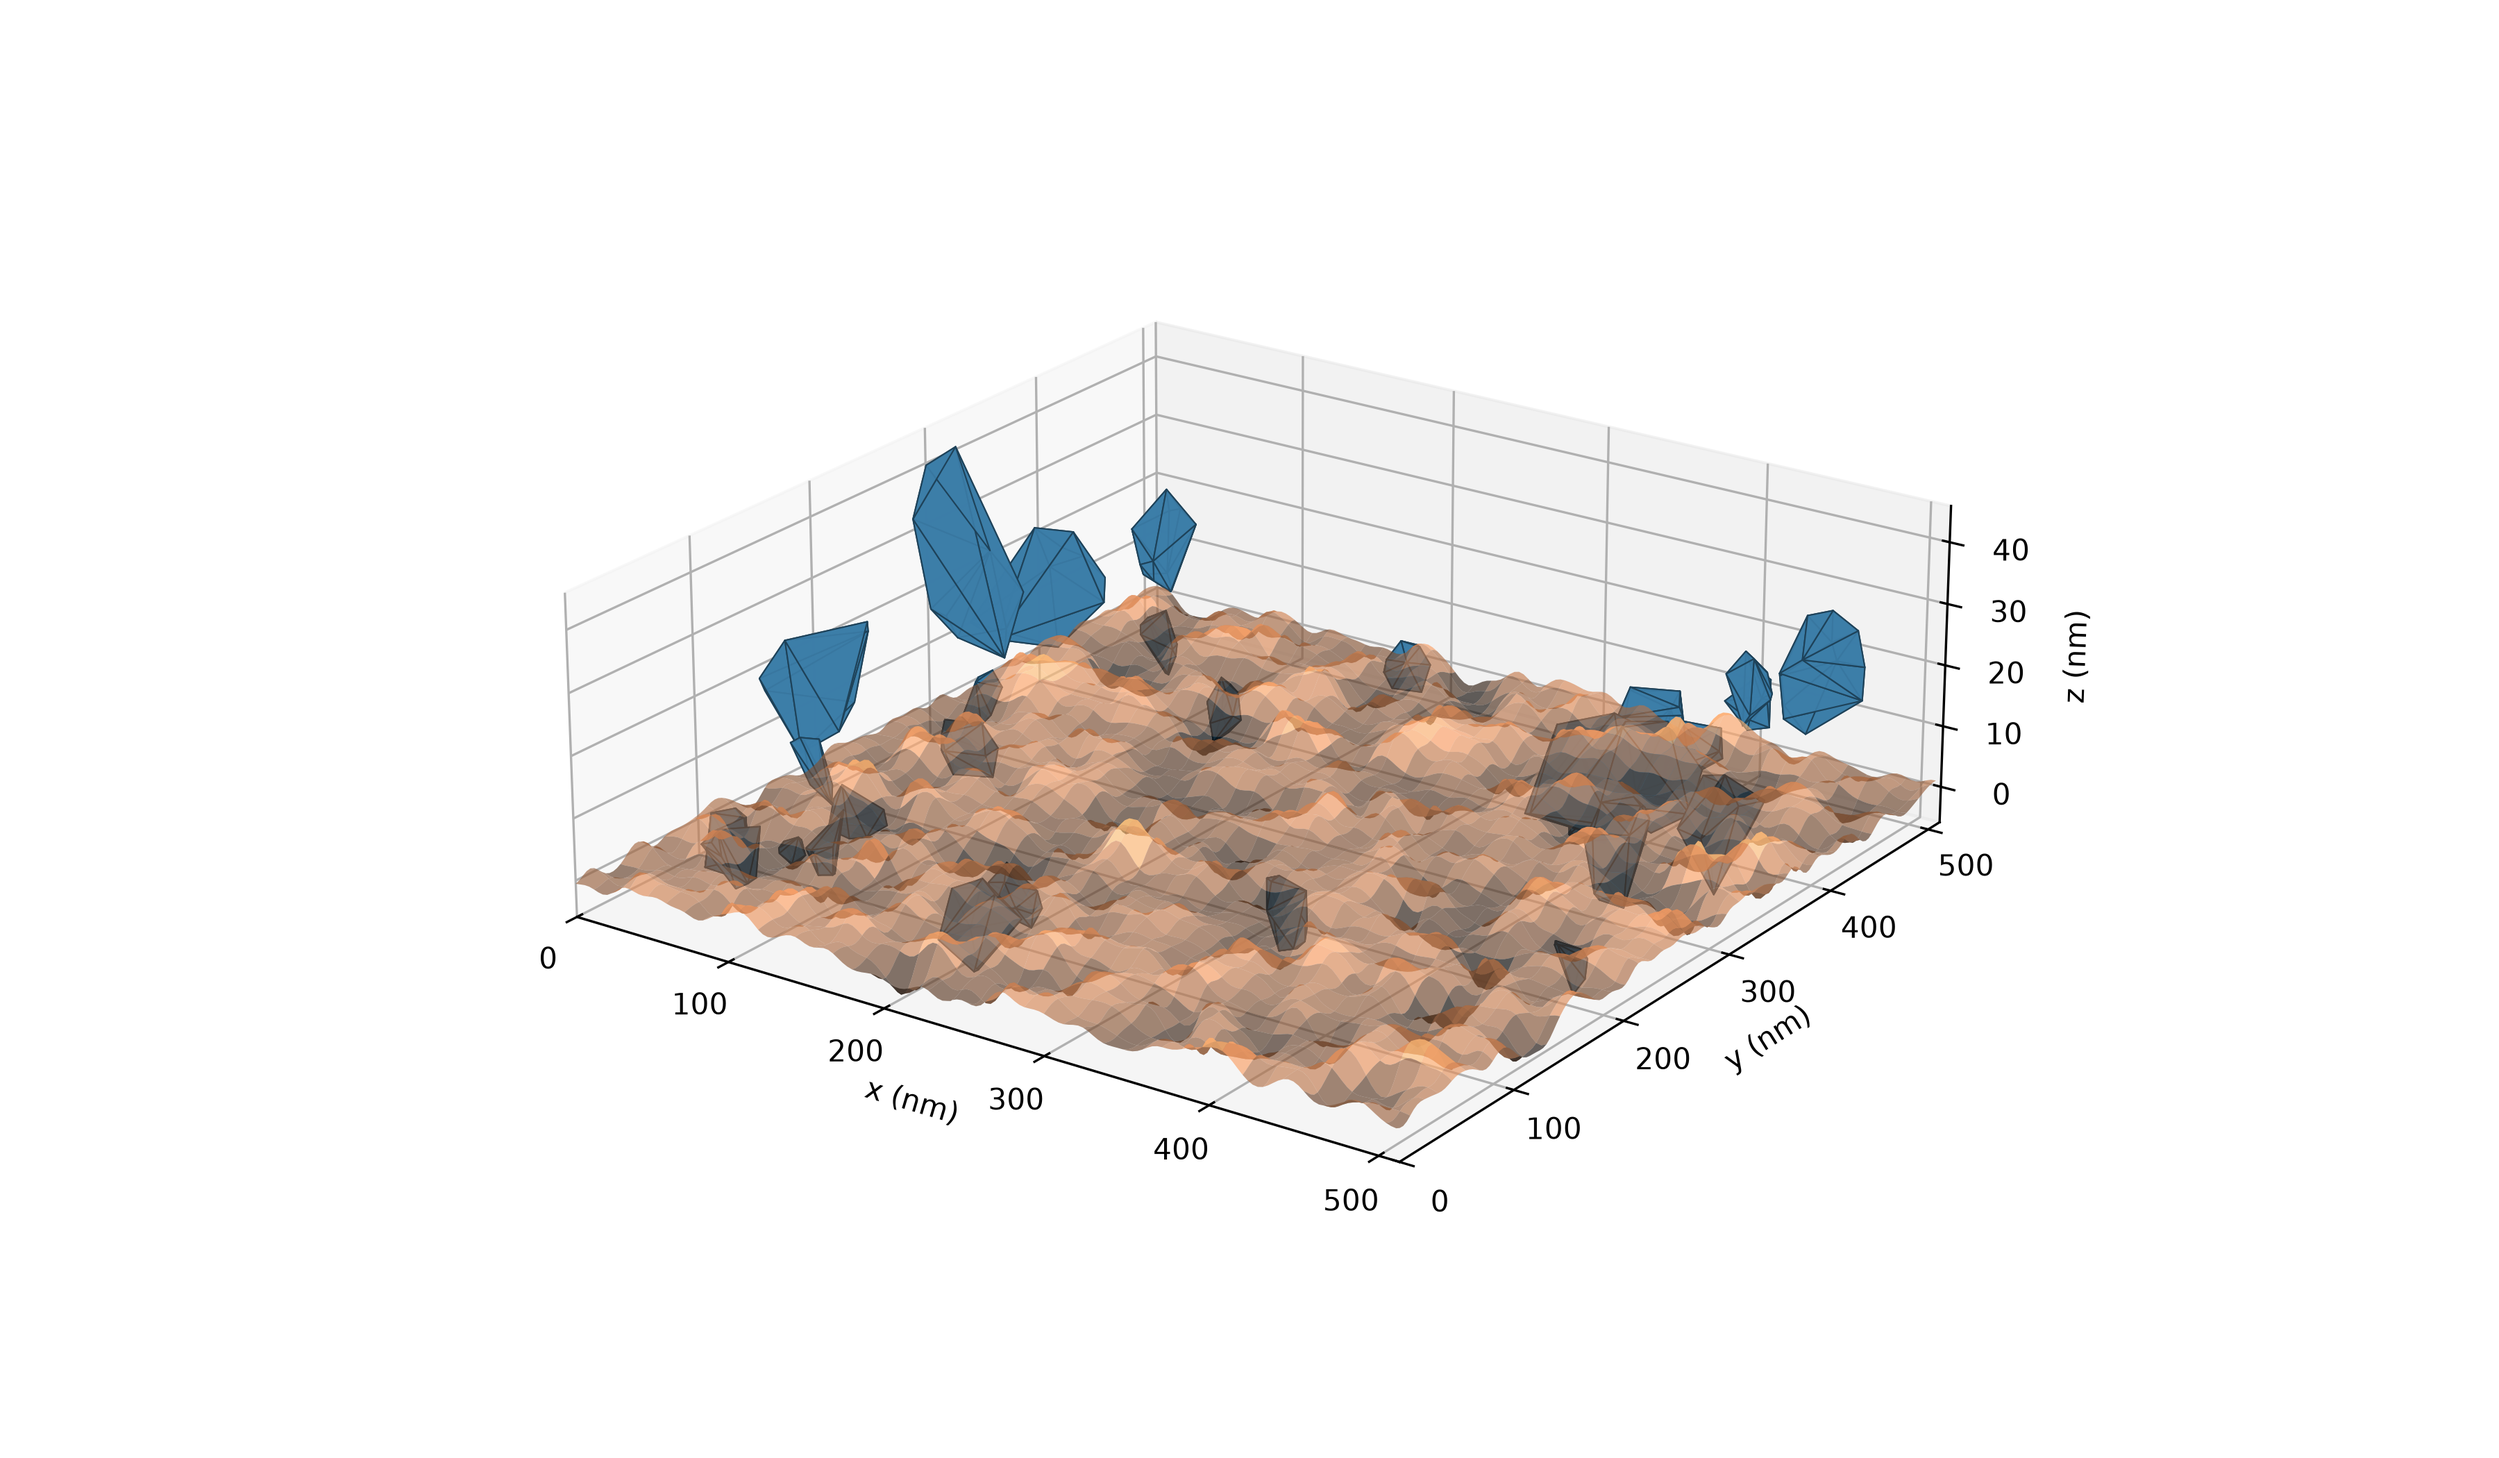
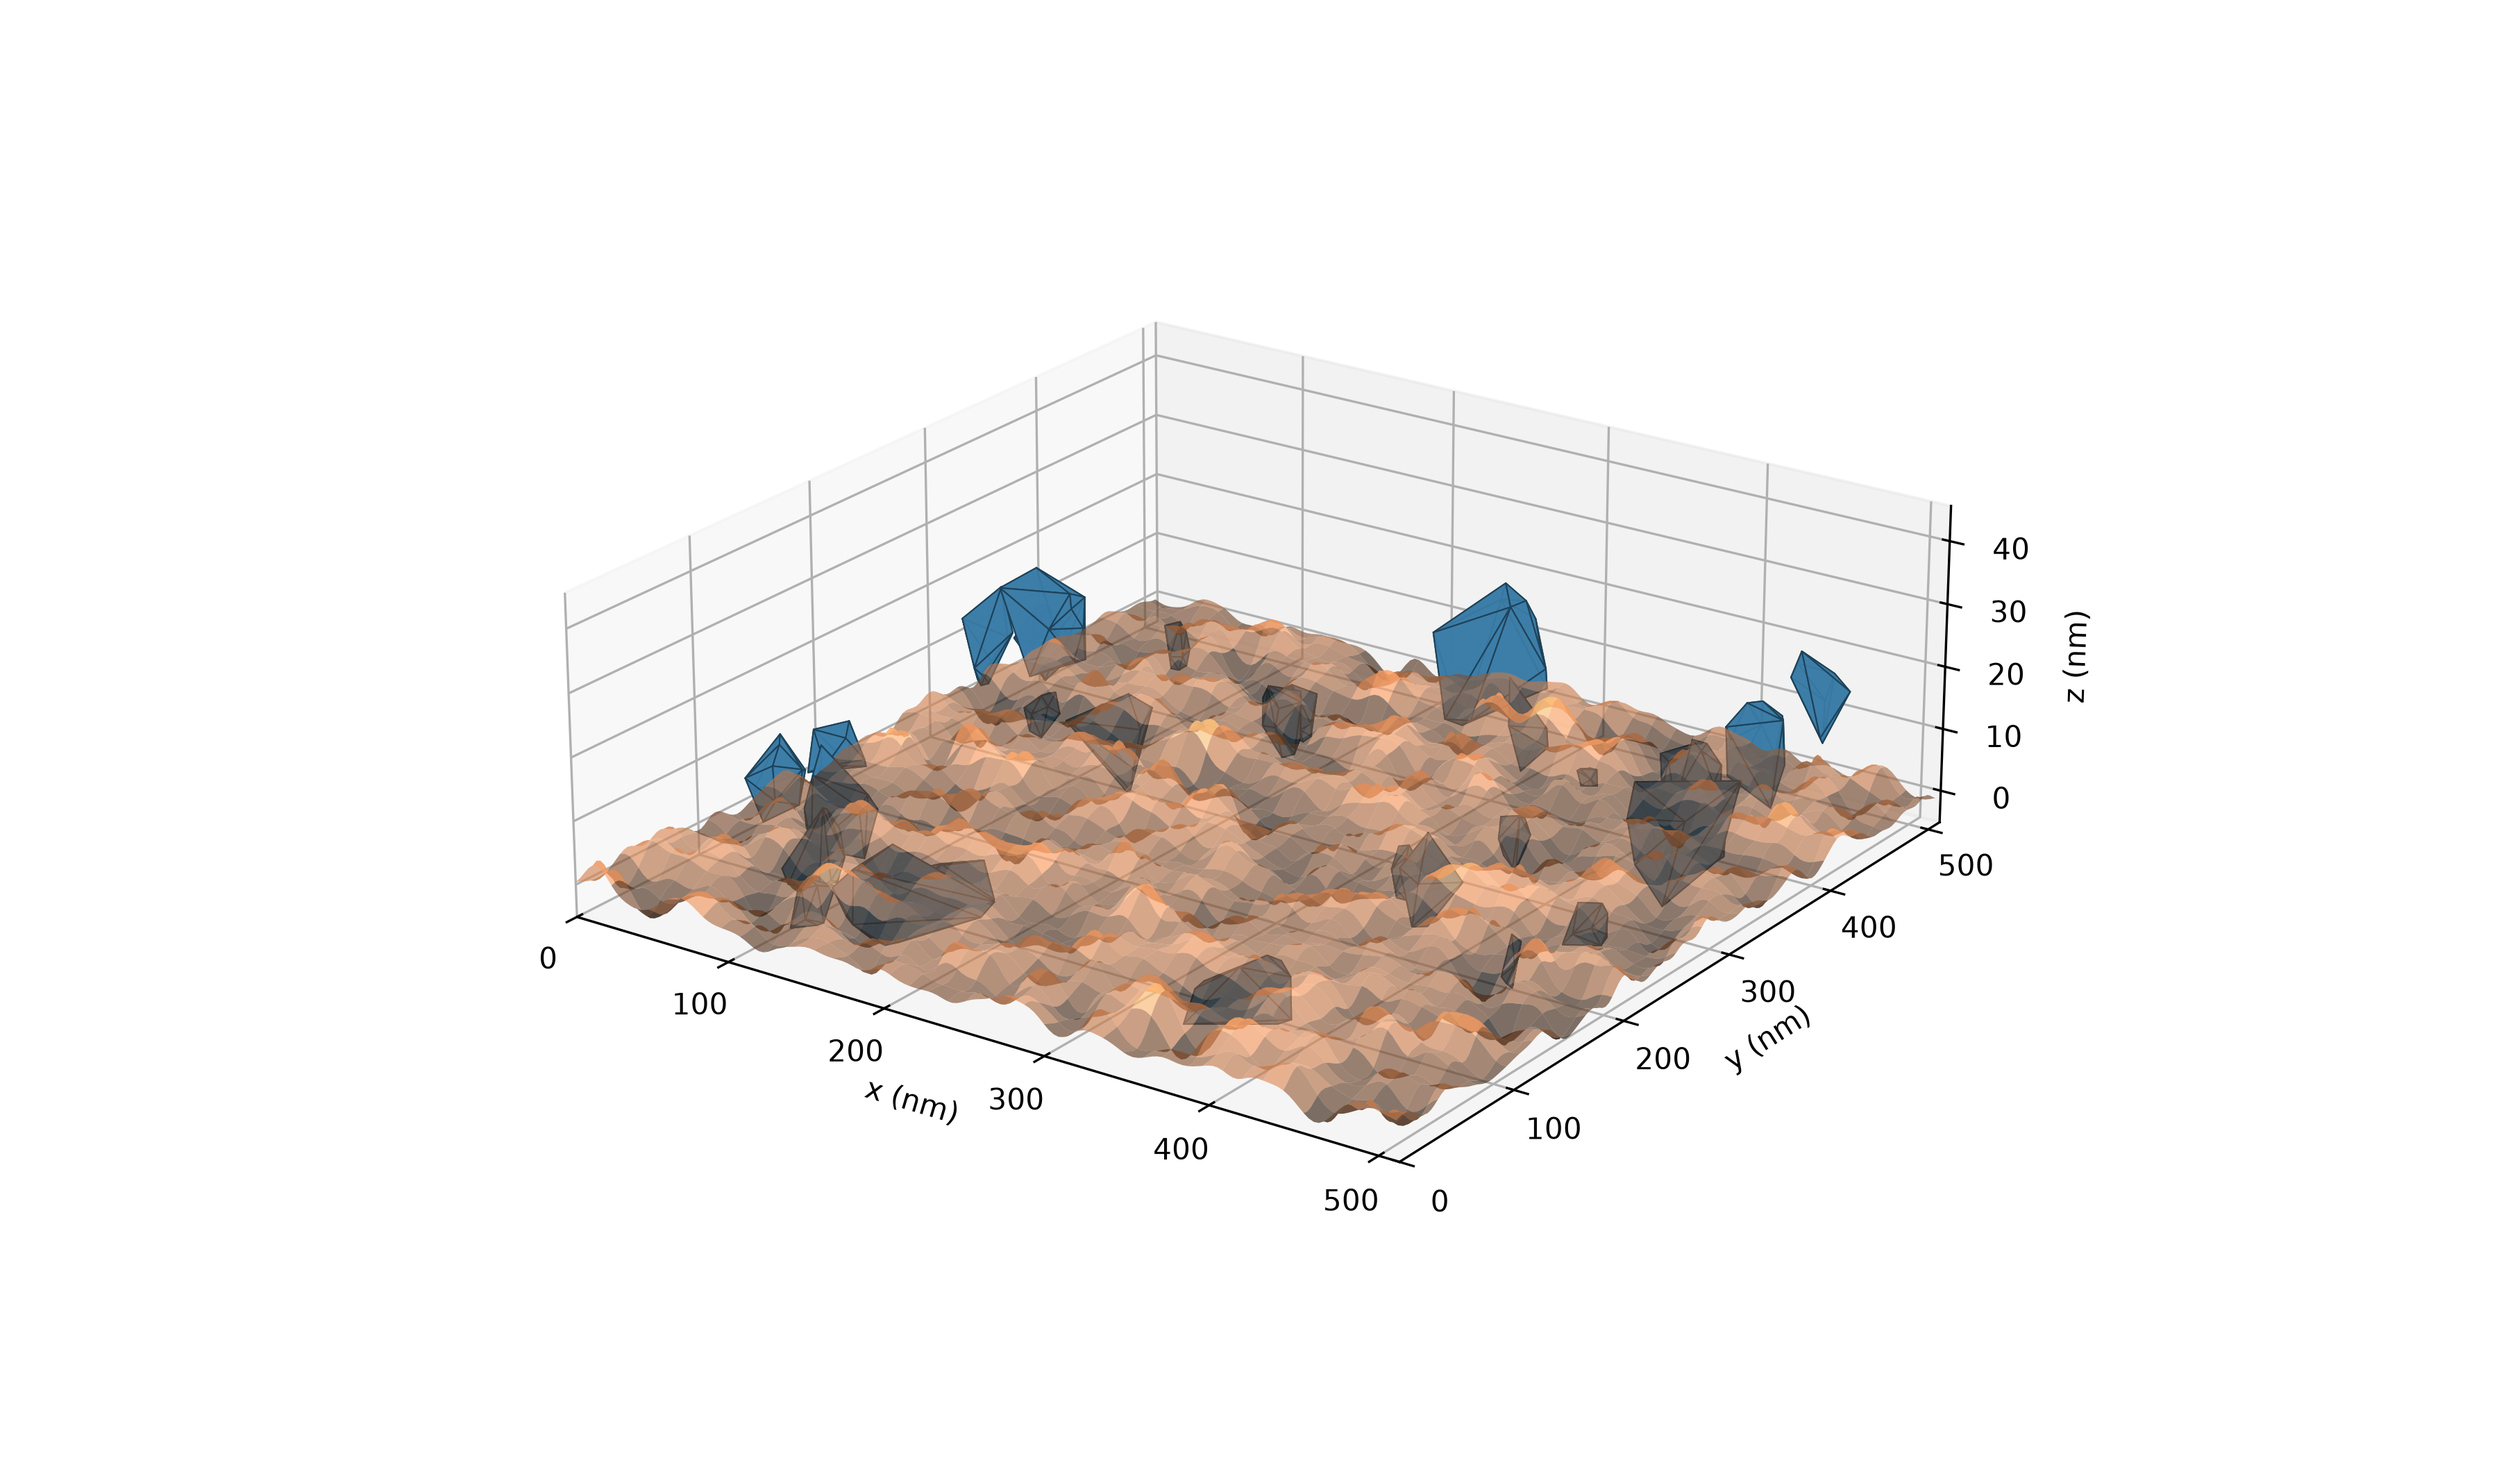
feat: implementacion de barrido elastico discreto de Greenwood-Williamson (curva F_N vs A_real)

Changed region(s): [[0.2178, 0.3095, 0.7778, 0.7738], [0.7778, 0.4952, 0.8089, 0.5262]]

diff --git a/main.py b/main.py
@@ -3,6 +3,9 @@ from scipy.signal import fftconvolve
 from scipy.spatial import ConvexHull
 import matplotlib.pyplot as plt
 from mpl_toolkits.mplot3d.art3d import Poly3DCollection
+from scipy.ndimage import maximum_filter
+from scipy.integrate import quad
+import pandas as pd
 
 # ==============================================================================
 # 1. PARÁMETROS FÍSICOS Y NUMÉRICOS DEL SISTEMA
@@ -150,6 +153,77 @@ def asentar_y_extraer_mallas(granos, Z_metal, N, dx):
         Z_bot[i_min:i_max, j_min:j_max][dentro] = np.fmin(Z_bot[i_min:i_max, j_min:j_max][dentro], z_b)
 
     return Z_top, Z_bot, poliedros_3d
+
+
+
+#Para poder verificar AGW es necesario permitir que las dos placas de metal tengan un contacto elástico, con defomraciones. 
+#Por simplificación analítica, vamos a ir desplazando el material distancias arbitrarias, que corresponderán a una fuerza, y a un área, luego podremos mirar en las tablas obtenidas para x fuerza, cuanta distancia se desplaza y que area hay. 
+#Cabe destacar que en esta parte, en vez de trabajar coin Z1 y Z2 lo hacemos con Z_eq, ya que es lo mismo mirar asperezas con ambas matrices, que con la suma equivalente y una pared plana, lo que computacionalmente es mucho más sencillo  (g(x, y) = z_sup(x, y) - z_inf}(x, y) = (d - Z_2(x, y)) - Z_1(x, y))= d- Z_eq
+def caracterizar_asperezas(Z,dx):
+    """
+    Usamos análisis de los vecinos proximos para saber la posición de los maximos locales, que serán las asperezas a considerar para la mecánica de contacto. Con eso calculamos su radio de curbatura local 
+    """
+    #Filtramos los maximos locales 
+    filtro=maximum_filter(Z,size=3)#Filtramos en un 3x3 de vecinos proximos (Modelo similar a ISING)
+    es_pico=(Z==filtro)
+    #Excluimos los bordes que no son picos reales
+    es_pico[0, :] = es_pico[-1, :] = es_pico[:, 0] = es_pico[:, -1] = False
+
+    alturas_picos=Z[es_pico] #Guradamos la alutra de los maximos
+    num_picos=len(alturas_picos)#Guardamos el numero de picos
+    area_total = (Z.shape[0] * dx) * (Z.shape[1] * dx)
+    rho = num_picos / area_total  # Densidad de picos por m^2
+
+    #Analizamos la curbatura por pico
+    i_picos, j_picos = np.where(es_pico)
+    d2z_dx2 = (Z[i_picos, j_picos + 1] - 2 * Z[i_picos, j_picos] + Z[i_picos, j_picos - 1]) / (dx**2)
+    d2z_dy2 = (Z[i_picos + 1, j_picos] - 2 * Z[i_picos, j_picos] + Z[i_picos - 1, j_picos]) / (dx**2)
+    # La curvatura media kappa es -0.5 * laplaciano; el radio es 1 / kappa
+    kappa = -0.5 * (d2z_dx2 + d2z_dy2)
+    validos = (kappa > 1e-6)#aseguramos que hay curvatura descartando cuando no la haya
+    radios = 1/kappa[validos] 
+    alturas_picos=alturas_picos[validos]
+    R_medio= np.mean(radios)
+    sigma_p = np.std(alturas_picos)
+    
+    return alturas_picos,radios, R_medio, rho ,sigma_p
+
+def barrido_contacto_GW(alturas_picos, radios, E_star, n_pasos=50):
+    """
+    Calcula la curva de area A_real vs F_N bajando una placa rígida paso a paso. 
+    """ 
+    #Miramos los puntos maximo y minimos 
+    z_max = np.max(alturas_picos)
+    z_min = np.min(alturas_picos)
+    # Barrido de separación 'd' desde el pico más alto hacia abajo
+    separaciones = np.linspace(z_max, z_min + 0.3 * (z_max - z_min), n_pasos) #El 0.3 es la cota de bajada maxima que pude hacer el material, se debe aproximadamente a hacer una resticción de d \approx 2sigma_s o 1.5\sigma_s. (Son valores empiricos de maximo desplazamiento)
+    
+    #Inicializamos las listas de valores 
+    A_real = []
+    F_normal = []
+
+    for d in separaciones: 
+        #Miramos para un movimiento concreto que particulas están en contacto 
+        delta =alturas_picos -d
+        en_contacto = delta >0 
+        #Para cada altura miramos si hay contacto, si lo hay guardamos la infomación de la fuerza y de las areas de contacto.  
+        if np.any(en_contacto):
+            delta_c = delta[en_contacto]
+            R_c = radios[en_contacto]
+            
+            # Formulación elástica de Hertz (GW) por cada aspereza
+            areas = np.pi * R_c * delta_c #Usamos la fomulación de Hertz para hacer los cálculos
+            fuerzas = (4.0 / 3.0) * E_star * np.sqrt(R_c) * (delta_c**1.5) #De igual forma usamos la solución a la fuerza de Hertz para relacionar la presión con la fuerza a través de una integración.
+            
+            A_real.append(np.sum(areas))
+            F_normal.append(np.sum(fuerzas))
+        else:
+            A_real.append(0.0)
+            F_normal.append(0.0)
+
+
+    return np.array(F_normal), np.array(A_real) , separaciones
+
 
 
 """
@@ -308,3 +382,51 @@ ax.view_init(elev=22, azim=-55)
 plt.tight_layout()
 plt.savefig("regolito_poliedrico_cerrado.png", dpi=300)
 plt.show()
+
+
+#Comprobación de AGW 
+# Propiedades mecánicas (ej. Aluminio-Aluminio: E=70 GPa, nu=0.33)
+E_mat = 70e9
+nu_mat = 0.33
+E_star = 1.0 / (2.0 * (1.0 - nu_mat**2) / E_mat)
+
+# 1. Superficie compuesta equivalente
+Z1 = generar_superficie(N_PUNTOS, DX, SIGMA_S, XI)
+Z2 = generar_superficie(N_PUNTOS, DX, SIGMA_S, XI)
+Z_eq = Z1 + Z2
+
+# 2. Extracción numérica discreta
+alturas, radios, R_medio, rho, sigma_p = caracterizar_asperezas(Z_eq, DX)
+F_num, A_num, separaciones = barrido_contacto_GW(alturas, radios, E_star, n_pasos=60)
+
+# 3. Solución teórica analítica continua de Greenwood-Williamson (1966)
+A0 = (N_PUNTOS * DX)**2
+A_teorico_GW = []
+F_teorico_GW = []
+
+phi = lambda s: (1.0 / np.sqrt(2.0 * np.pi)) * np.exp(-0.5 * s**2)
+
+#Printeamos los resultados con pandas en un DataFrame para luego poder añadir siempre más información como columnas con las areas analiticas y aproximadas
+area_aparente_nm2 = (N_PUNTOS * DX * 1e9)**2
+
+# Construcción del DataFrame con magnitudes físicas escaladas
+df_contacto = pd.DataFrame({
+    'd [nm]': separaciones * 1e9,
+    'F_normal [uN]': F_num * 1e6,
+    'A_real [nm2]': A_num * 1e18,
+    'A_real / A_0 [%]': (A_num * 1e18 / area_aparente_nm2) * 100.0,
+    'P_media [MPa]': np.where(A_num > 0, (F_num / A_num) * 1e-6, 0.0)
+})
+
+# Configuración de pandas para ver la tabla completa sin recortes en consola
+pd.set_option('display.max_rows', None)
+pd.set_option('display.max_columns', None)
+pd.set_option('display.width', 1000)
+pd.set_option('display.float_format', lambda x: f'{x:12.4e}' if abs(x) < 1e-2 and x != 0 else f'{x:12.3f}')
+
+print("\n" + "=" * 80)
+print("RESULTADOS NUMÉRICOS DISCRETOS: BARRIDO DE CONTACTO")
+print(f"Área aparente nominal A_0: {area_aparente_nm2:.2f} nm²")
+print("=" * 80)
+print(df_contacto)
+print("=" * 80)
